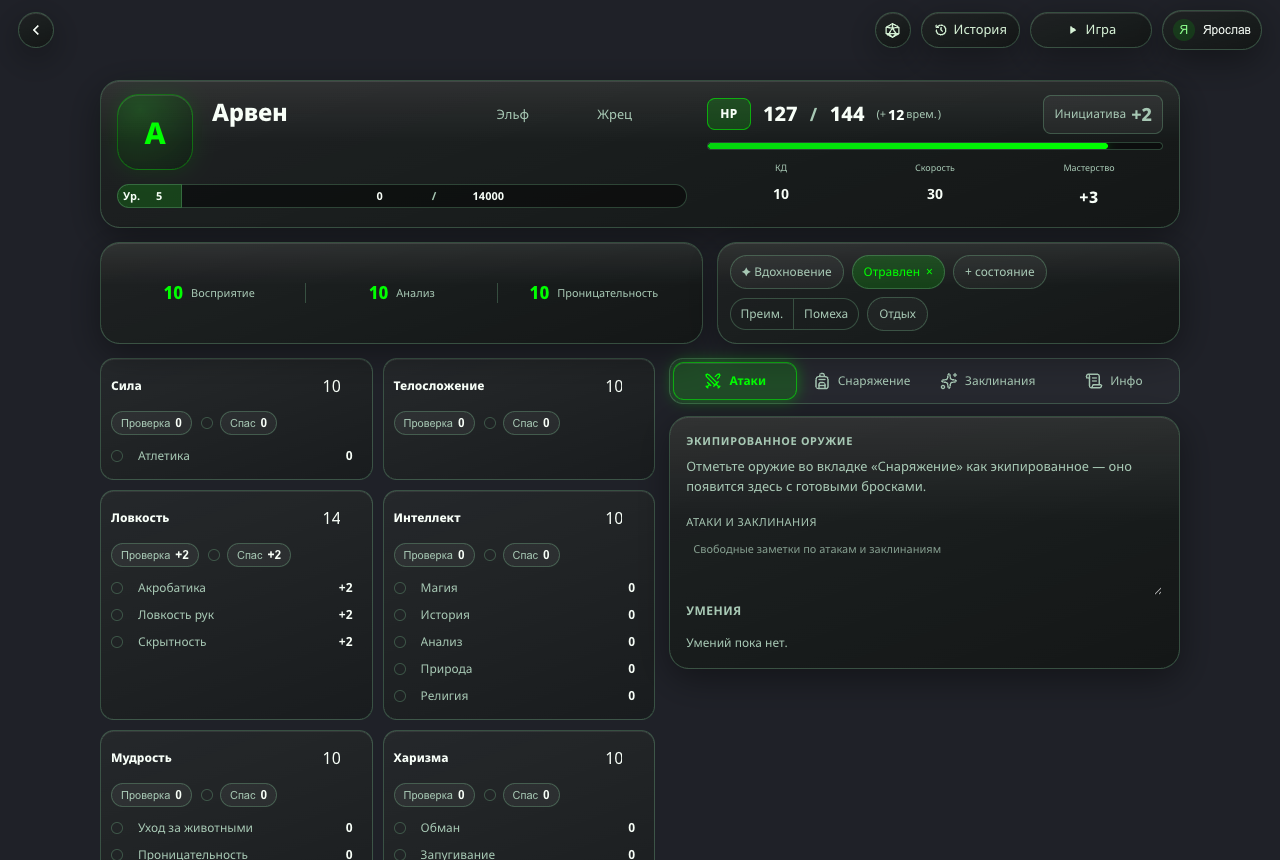
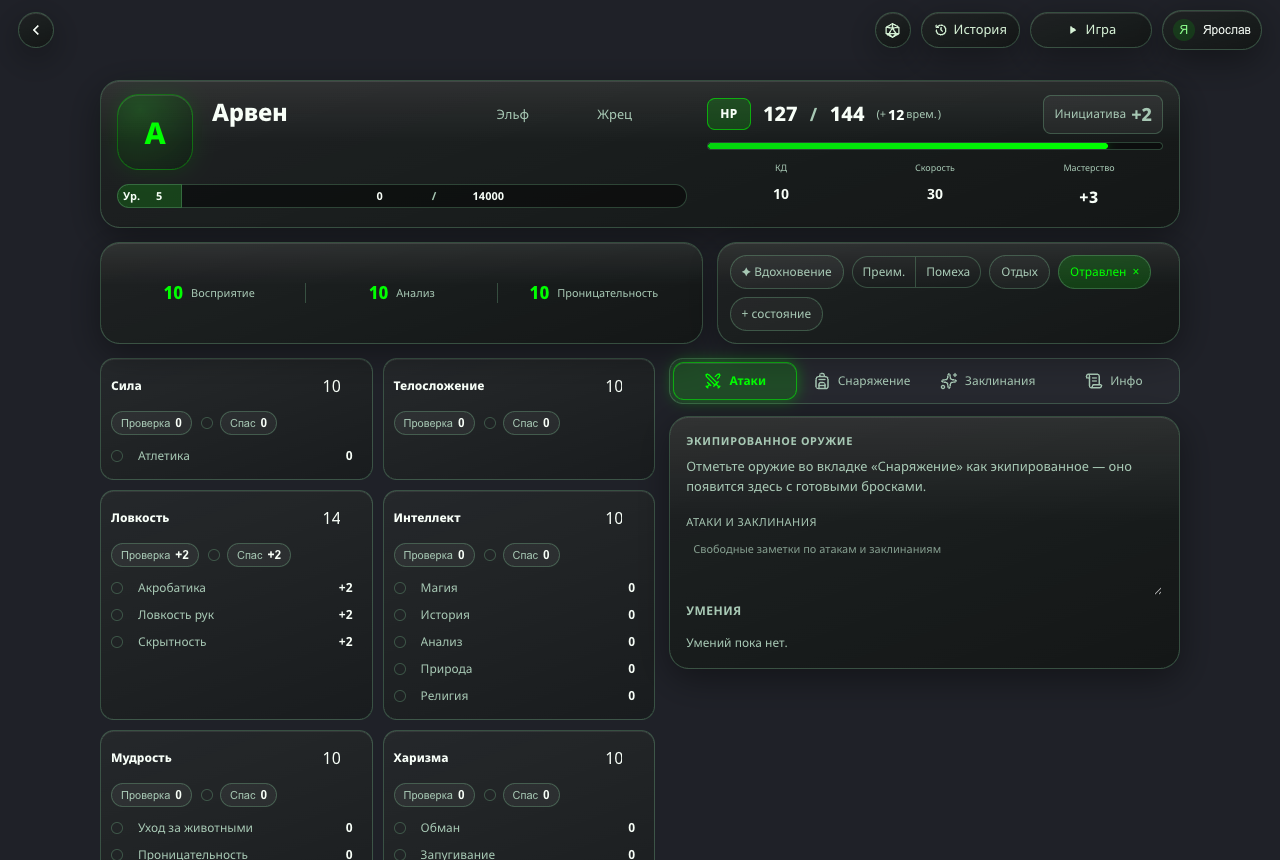
feat(character-sheet): the roll mode and the rest come before the conditions
Inspiration, advantage / disadvantage, rest - then the conditions and the
button that adds one: the fixed controls stay put while the list grows.

Changed region(s): [[0.6562, 0.2721, 0.9062, 0.393], [0.5625, 0.3326, 0.6562, 0.393]]

diff --git a/src/components/DndCharacterStates.vue b/src/components/DndCharacterStates.vue
@@ -2,12 +2,13 @@
   <section ref="root" class="dnd-cs-states dnd-glass" aria-label="Состояния">
     <div class="dnd-cs-state-list">
       <button type="button" class="dnd-cs-toggle" :class="{ on: combat.inspiration }" :disabled="readonly" :aria-pressed="combat.inspiration" @click="toggleInspiration">✦ Вдохновение</button>
+      <!-- What else a turn is set up with (the sheet puts advantage / disadvantage and the rest here).
+           Before the conditions: these stay put while the list of conditions grows after them. -->
+      <slot />
       <button v-for="condition in combat.conditions" :key="condition" type="button" class="dnd-cs-condition" :disabled="readonly" :aria-label="'Удалить состояние: ' + conditionLabel(condition)" @click="remove(condition)">
         {{ conditionLabel(condition) }} <span aria-hidden="true">×</span>
       </button>
       <button type="button" class="dnd-cs-add-condition" aria-label="Добавить состояние" :aria-expanded="Boolean(open)" :disabled="readonly || !available.length" @click="toggleMenu">+ состояние</button>
-      <!-- What else a turn is set up with (the sheet puts advantage / disadvantage and the rest here). -->
-      <slot />
     </div>
     <Teleport to="body">
       <div v-if="open && !readonly" ref="popup" class="dnd-cs-condition-menu" :style="menuStyle" role="group" aria-label="Доступные состояния">

diff --git a/src/components/DndCharacterSheet.sections.test.ts b/src/components/DndCharacterSheet.sections.test.ts
@@ -247,6 +247,14 @@ describe('what is looked up, and the initiative roll', () => {
     const states = wrapper!.get('[aria-label="Состояния"]');
     expect(states.findAll('.dnd-roll-mode button').map((button) => button.text())).toEqual(['Преим.', 'Помеха']);
     expect(states.get('.dnd-cs-rest-button').text()).toBe('Отдых');
+    // The fixed controls come first; conditions and "+ состояние" follow, so adding one moves nothing before it.
+    data.combat.conditions = ['poisoned'];
+    await wrapper!.vm.$nextTick();
+    const order = Array.from(wrapper!.get('.dnd-cs-state-list').element.children).map((child) => child.textContent!.replace(/\s+/g, ' ').trim());
+    // (A sheet used on its own, as here, keeps its roll log button next to the roll mode; the page moves it to the header.)
+    expect(order).toEqual(['✦ Вдохновение', 'Преим.ПомехаЖурнал', 'Отдых', 'Отравлен ×', '+ состояние']);
+    data.combat.conditions = [];
+    await wrapper!.vm.$nextTick();
     expect(wrapper!.findAll('.dnd-roll-mode')).toHaveLength(1);
     expect(wrapper!.findAll('.dnd-cs-rest-button')).toHaveLength(1);
 

diff --git a/docs/character-sheet-style.md b/docs/character-sheet-style.md
@@ -306,7 +306,8 @@
   телефоне временные HP пишутся коротко, «(+12)», и не показываются, пока их нет.
 - **Хиты на листе читают, а не вписывают.** Текущие и временные HP не редактируются
   нигде; максимум — поле только в режиме настройки. Меняются хиты кнопкой «HP».
-- **Преимущество / помеха и «Отдых» стоят в блоке состояний**, после «+ состояние»: это
+- **Преимущество / помеха и «Отдых» стоят в блоке состояний**, сразу после «Вдохновения»
+  и перед состояниями: постоянные кнопки не сдвигаются, когда список состояний растёт. Это
   то, чем настраивают ход, а не то, что бросают. Кнопки «Атака» в шапке листа нет —
   атаки бросают из раздела «Атаки».
 - КД, скорость и мастерство — значения, в которые заглядывают: на широком экране они
